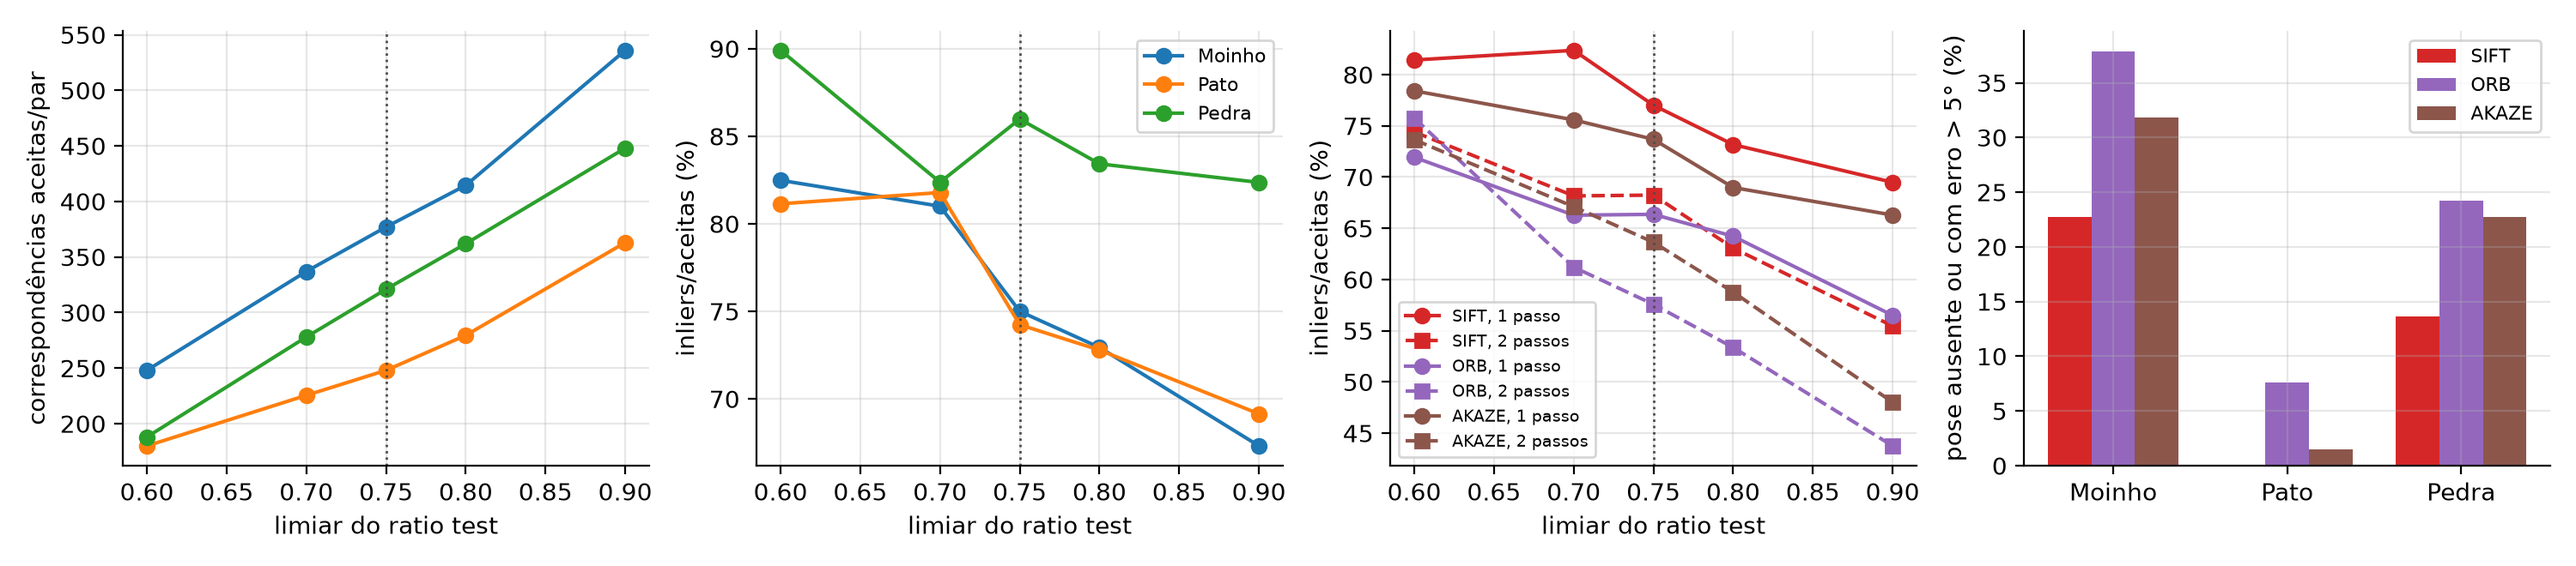
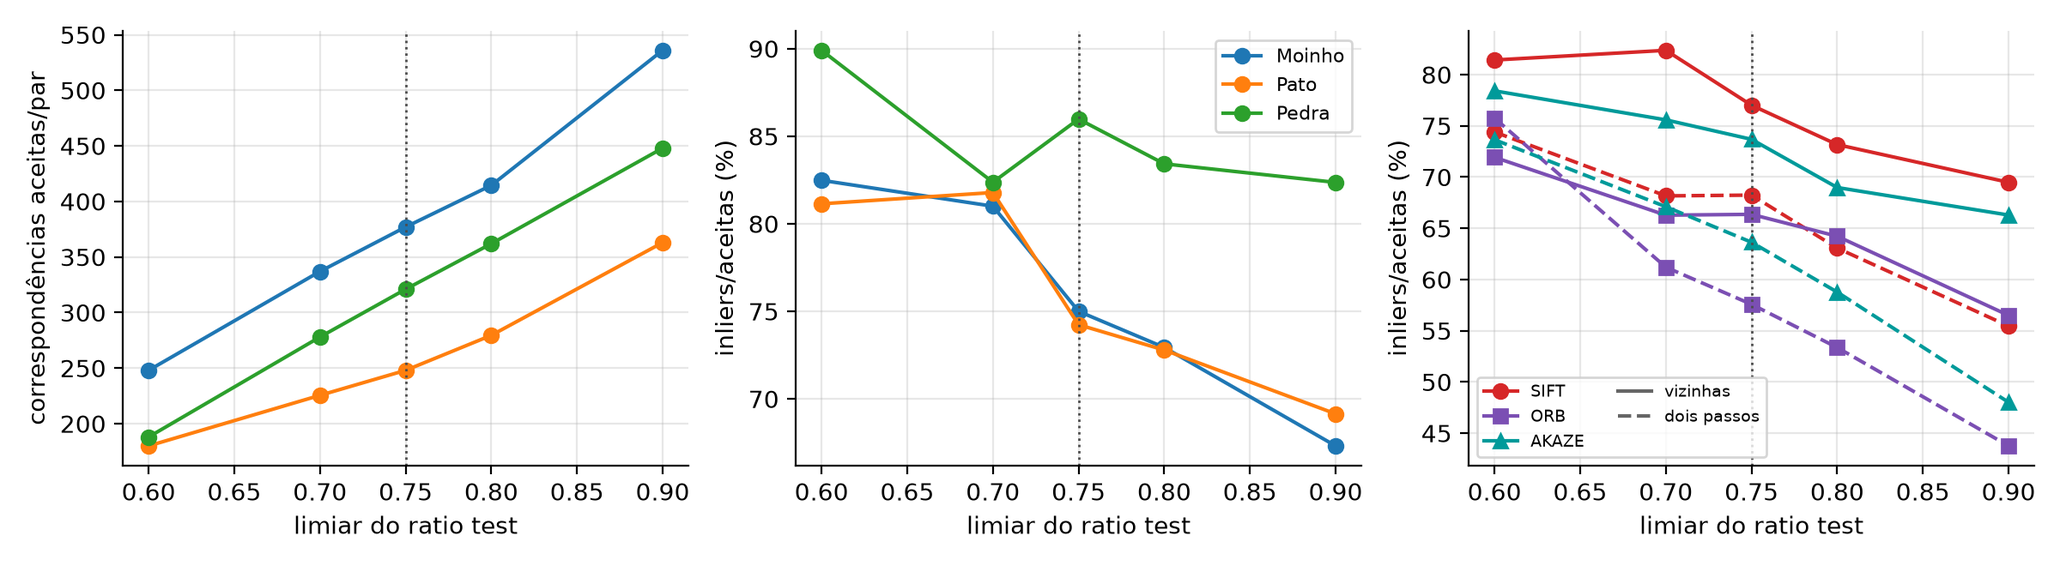
Tabela e figura de erro de pose por detector nos três objetos
Claude-Session: https://claude.ai/code/session_01Qg1cBhzEfvPbPEaJo7kHLT

diff --git a/trabalho-2/figura_parametros.py b/trabalho-2/figura_parametros.py
@@ -12,8 +12,10 @@ import features
 from parametros import RATIOS, SIDES, THRESHOLDS_PX, median_curve
 
 OBJECTS = {"moinho": "Moinho", "pato": "Pato", "pedra": "Pedra"}
-DETECTORS = {"SIFT": "C3", "ORB": "C4", "AKAZE": "C5"}
+DETECTORS = {"SIFT": ("#d62728", "o"), "ORB": ("#7b4fb3", "s"), "AKAZE": ("#009a9a", "^")}
+GAPS = {1: "vizinhas", 2: "dois passos"}
 FAIL_DEG = 5.0
+NO_POSE = 400.0
 
 
 def complete(rows, **fixed):
@@ -34,6 +36,13 @@ def failure_pct(rows, detector, gap):
     return 100 * np.mean(fails)
 
 
+def default_pairs(rows, detector, gap):
+    # Pose errors per pair at the default configuration; None when no pose was estimated.
+    done = {r["par"]: r for r in rows if r["detector"] == detector and r["gap"] == gap
+            and (r["lado_px"], r["ratio"], r["limiar_px"]) == (features.MAX_SIDE, features.RATIO, features.F_THRESHOLD_PX)}
+    return [done.get(p) for p in sorted({r["par"] for r in rows if r["gap"] == gap})]
+
+
 def style(ax, xlabel, ylabel):
     ax.set_xlabel(xlabel)
     ax.set_ylabel(ylabel)
@@ -41,11 +50,9 @@ def style(ax, xlabel, ylabel):
     ax.spines[["top", "right"]].set_visible(False)
 
 
-def main(saida):
-    rows = {o: json.loads((saida / f"{o}_parametros/parametros.json").read_text())["dois_pontos"] for o in OBJECTS}
+def ratio_figure(rows, saida):
     base = {"lado_px": features.MAX_SIDE, "limiar_px": features.F_THRESHOLD_PX}
-    fig, axes = plt.subplots(1, 4, figsize=(15, 3.3))
-
+    fig, axes = plt.subplots(1, 3, figsize=(12, 3.3))
     for k, (o, label) in enumerate(OBJECTS.items()):
         for ax, y in zip(axes[:2], ("matches", "inliers_F_pct")):
             xs, ys = median_curve(complete(rows[o], detector="SIFT", gap=1, **base), "ratio", y)
@@ -53,27 +60,82 @@ def main(saida):
     style(axes[0], "limiar do ratio test", "correspondências aceitas/par")
     style(axes[1], "limiar do ratio test", "inliers/aceitas (%)")
     axes[1].legend(fontsize=8)
-
-    for name, color in DETECTORS.items():
-        for gap, ls in ((1, "o-"), (2, "s--")):
+    for name, (color, marker) in DETECTORS.items():
+        for gap, ls in ((1, "-"), (2, "--")):
             pooled = [r for o in OBJECTS for r in complete(rows[o], detector=name, gap=gap, **base)]
             xs, ys = median_curve(pooled, "ratio", "inliers_F_pct")
-            axes[2].plot(xs, ys, ls, color=color, label=f"{name}, {gap} passo{'s' * (gap > 1)}")
+            axes[2].plot(xs, ys, ls, marker=marker, color=color, label=name if gap == 1 else None)
+    for gap, ls in ((1, "-"), (2, "--")):
+        axes[2].plot([], [], ls, color="0.4", label=GAPS[gap])
     style(axes[2], "limiar do ratio test", "inliers/aceitas (%)")
-    axes[2].legend(fontsize=7, ncol=1)
-    for ax in axes[:3]:
+    axes[2].legend(fontsize=7, ncol=2, loc="lower left")
+    for ax in axes:
         ax.axvline(features.RATIO, color="0.3", ls=":", lw=1)
-
-    width = 0.25
-    for j, (name, color) in enumerate(DETECTORS.items()):
-        fails = [failure_pct(rows[o], name, 2) for o in OBJECTS]
-        axes[3].bar(np.arange(len(OBJECTS)) + (j - 1) * width, fails, width, color=color, label=name)
-    axes[3].set_xticks(range(len(OBJECTS)), list(OBJECTS.values()))
-    style(axes[3], "", f"pose ausente ou com erro > {FAIL_DEG:g}° (%)")
-    axes[3].legend(fontsize=8)
-
     fig.tight_layout()
     fig.savefig(saida / "hiperparametros_objetos.png", dpi=200)
+
+
+def pose_figure(rows, saida):
+    fig, axes = plt.subplots(2, 3, figsize=(12, 5), sharex=True, sharey=True)
+    for col, (o, label) in enumerate(OBJECTS.items()):
+        for row, (key, ylabel) in enumerate((("erro_R_graus", "erro de rotação (°)"), ("erro_t_graus", "erro da direção de t (°)"))):
+            ax = axes[row, col]
+            for j, (name, (color, marker)) in enumerate(DETECTORS.items()):
+                for g, gap in enumerate(GAPS):
+                    pairs = default_pairs(rows[o], name, gap)
+                    x = g + (j - 1) * 0.25 + np.linspace(-0.06, 0.06, len(pairs))
+                    ys = [max(r[key], 0.01) if r else NO_POSE for r in pairs]
+                    ax.scatter(x, ys, s=22, marker=marker, color=color, edgecolor="white", lw=0.5, zorder=3,
+                               label=name if g == 0 else None)
+                    found = [y for y in ys if y < NO_POSE]
+                    ax.hlines(np.median(found), x[0] - 0.05, x[-1] + 0.05, color="0.15", lw=1.5, zorder=4)
+            ax.axhline(FAIL_DEG, color="0.3", ls=":", lw=1)
+            ax.axhspan(200, 1000, color="0.92", zorder=0)
+            ax.set_yscale("log")
+            ax.set_ylim(0.006, 1000)
+            ax.set_xticks(range(len(GAPS)), list(GAPS.values()))
+            style(ax, "", ylabel if col == 0 else "")
+            if row == 0:
+                ax.set_title(label)
+    axes[0, 0].text(-0.45, NO_POSE, "sem pose", va="center", fontsize=7, color="0.3")
+    axes[0, 2].legend(fontsize=8, loc="lower right")
+    fig.tight_layout()
+    fig.savefig(saida / "detectores_pose.png", dpi=200)
+
+
+def table(rows, saida):
+    # Per gap: median inliers, inlier %, rotation and translation errors, and failure % over the sweep.
+    digits = [0, 0, 1, 1, 0] * len(GAPS)
+    better = [max, max, min, min, min] * len(GAPS)
+    lines = [r"\begin{tabular}{ll" + "rrrrr" * len(GAPS) + "}", r"\toprule",
+             " & & " + " & ".join(rf"\multicolumn{{5}}{{c}}{{{g.capitalize()}}}" for g in GAPS.values()) + r" \\",
+             "".join(rf"\cmidrule(lr){{{3 + 5 * k}-{7 + 5 * k}}}" for k in range(len(GAPS))),
+             "Objeto & Detector" + r" & Inl. & Inl.\,(\%) & $e_R$ & $e_t$ & Falha\,(\%)" * len(GAPS) + r" \\"]
+    for o, label in OBJECTS.items():
+        block = {}
+        for name in DETECTORS:
+            cells = []
+            for gap in GAPS:
+                found = [r for r in default_pairs(rows[o], name, gap) if r]
+                cells += [np.median([r[k] for r in found]) for k in ("inliers_F", "inliers_F_pct", "erro_R_graus", "erro_t_graus")]
+                cells.append(failure_pct(rows[o], name, gap))
+            block[name] = [round(v, d) for v, d in zip(cells, digits)]
+        # Best detector per object and column in bold.
+        best = [f(c[i] for c in block.values()) for i, f in enumerate(better)]
+        lines.append(r"\midrule")
+        for k, (name, cells) in enumerate(block.items()):
+            text = [f"{v:.{d}f}".replace(".", ",") for v, d in zip(cells, digits)]
+            text = [rf"\textbf{{{t}}}" if v == b else t for t, v, b in zip(text, cells, best)]
+            lines.append((label if k == 0 else "") + f" & {name} & " + " & ".join(text) + r" \\")
+    lines += [r"\bottomrule", r"\end{tabular}"]
+    (saida / "detectores_objetos.tex").write_text("\n".join(lines) + "\n")
+
+
+def main(saida):
+    rows = {o: json.loads((saida / f"{o}_parametros/parametros.json").read_text())["dois_pontos"] for o in OBJECTS}
+    ratio_figure(rows, saida)
+    pose_figure(rows, saida)
+    table(rows, saida)
 
 
 if __name__ == "__main__":

diff --git a/trabalho-2/saida/detectores_objetos.tex b/trabalho-2/saida/detectores_objetos.tex
@@ -1,0 +1,19 @@
+\begin{tabular}{llrrrrrrrrrr}
+\toprule
+ & & \multicolumn{5}{c}{Vizinhas} & \multicolumn{5}{c}{Dois passos} \\
+\cmidrule(lr){3-7}\cmidrule(lr){8-12}
+Objeto & Detector & Inl. & Inl.\,(\%) & $e_R$ & $e_t$ & Falha\,(\%) & Inl. & Inl.\,(\%) & $e_R$ & $e_t$ & Falha\,(\%) \\
+\midrule
+Moinho & SIFT & 289 & \textbf{75} & \textbf{0,5} & \textbf{1,6} & \textbf{2} & \textbf{72} & \textbf{49} & \textbf{1,4} & \textbf{1,4} & \textbf{23} \\
+ & ORB & \textbf{400} & 63 & 0,6 & 4,1 & 3 & 50 & 33 & 4,6 & 4,3 & 38 \\
+ & AKAZE & 394 & 74 & 0,7 & 4,0 & 3 & 48 & 41 & 1,7 & 2,3 & 32 \\
+\midrule
+Pato & SIFT & 186 & \textbf{74} & \textbf{0,4} & \textbf{1,0} & \textbf{0} & 87 & \textbf{67} & \textbf{0,5} & \textbf{0,7} & \textbf{0} \\
+ & ORB & \textbf{404} & 67 & 0,7 & 1,9 & 5 & \textbf{114} & 60 & 1,2 & 1,1 & 8 \\
+ & AKAZE & 184 & 72 & 0,5 & 1,4 & \textbf{0} & 76 & 63 & 0,8 & \textbf{0,7} & 2 \\
+\midrule
+Pedra & SIFT & 452 & \textbf{91} & 1,4 & \textbf{11,9} & \textbf{24} & \textbf{135} & \textbf{89} & \textbf{1,4} & \textbf{4,9} & \textbf{14} \\
+ & ORB & \textbf{939} & 80 & 0,7 & 52,1 & 45 & 96 & 80 & 1,6 & 5,8 & 24 \\
+ & AKAZE & 143 & 77 & \textbf{0,5} & 21,7 & 36 & 54 & 75 & \textbf{1,4} & 8,8 & 23 \\
+\bottomrule
+\end{tabular}
